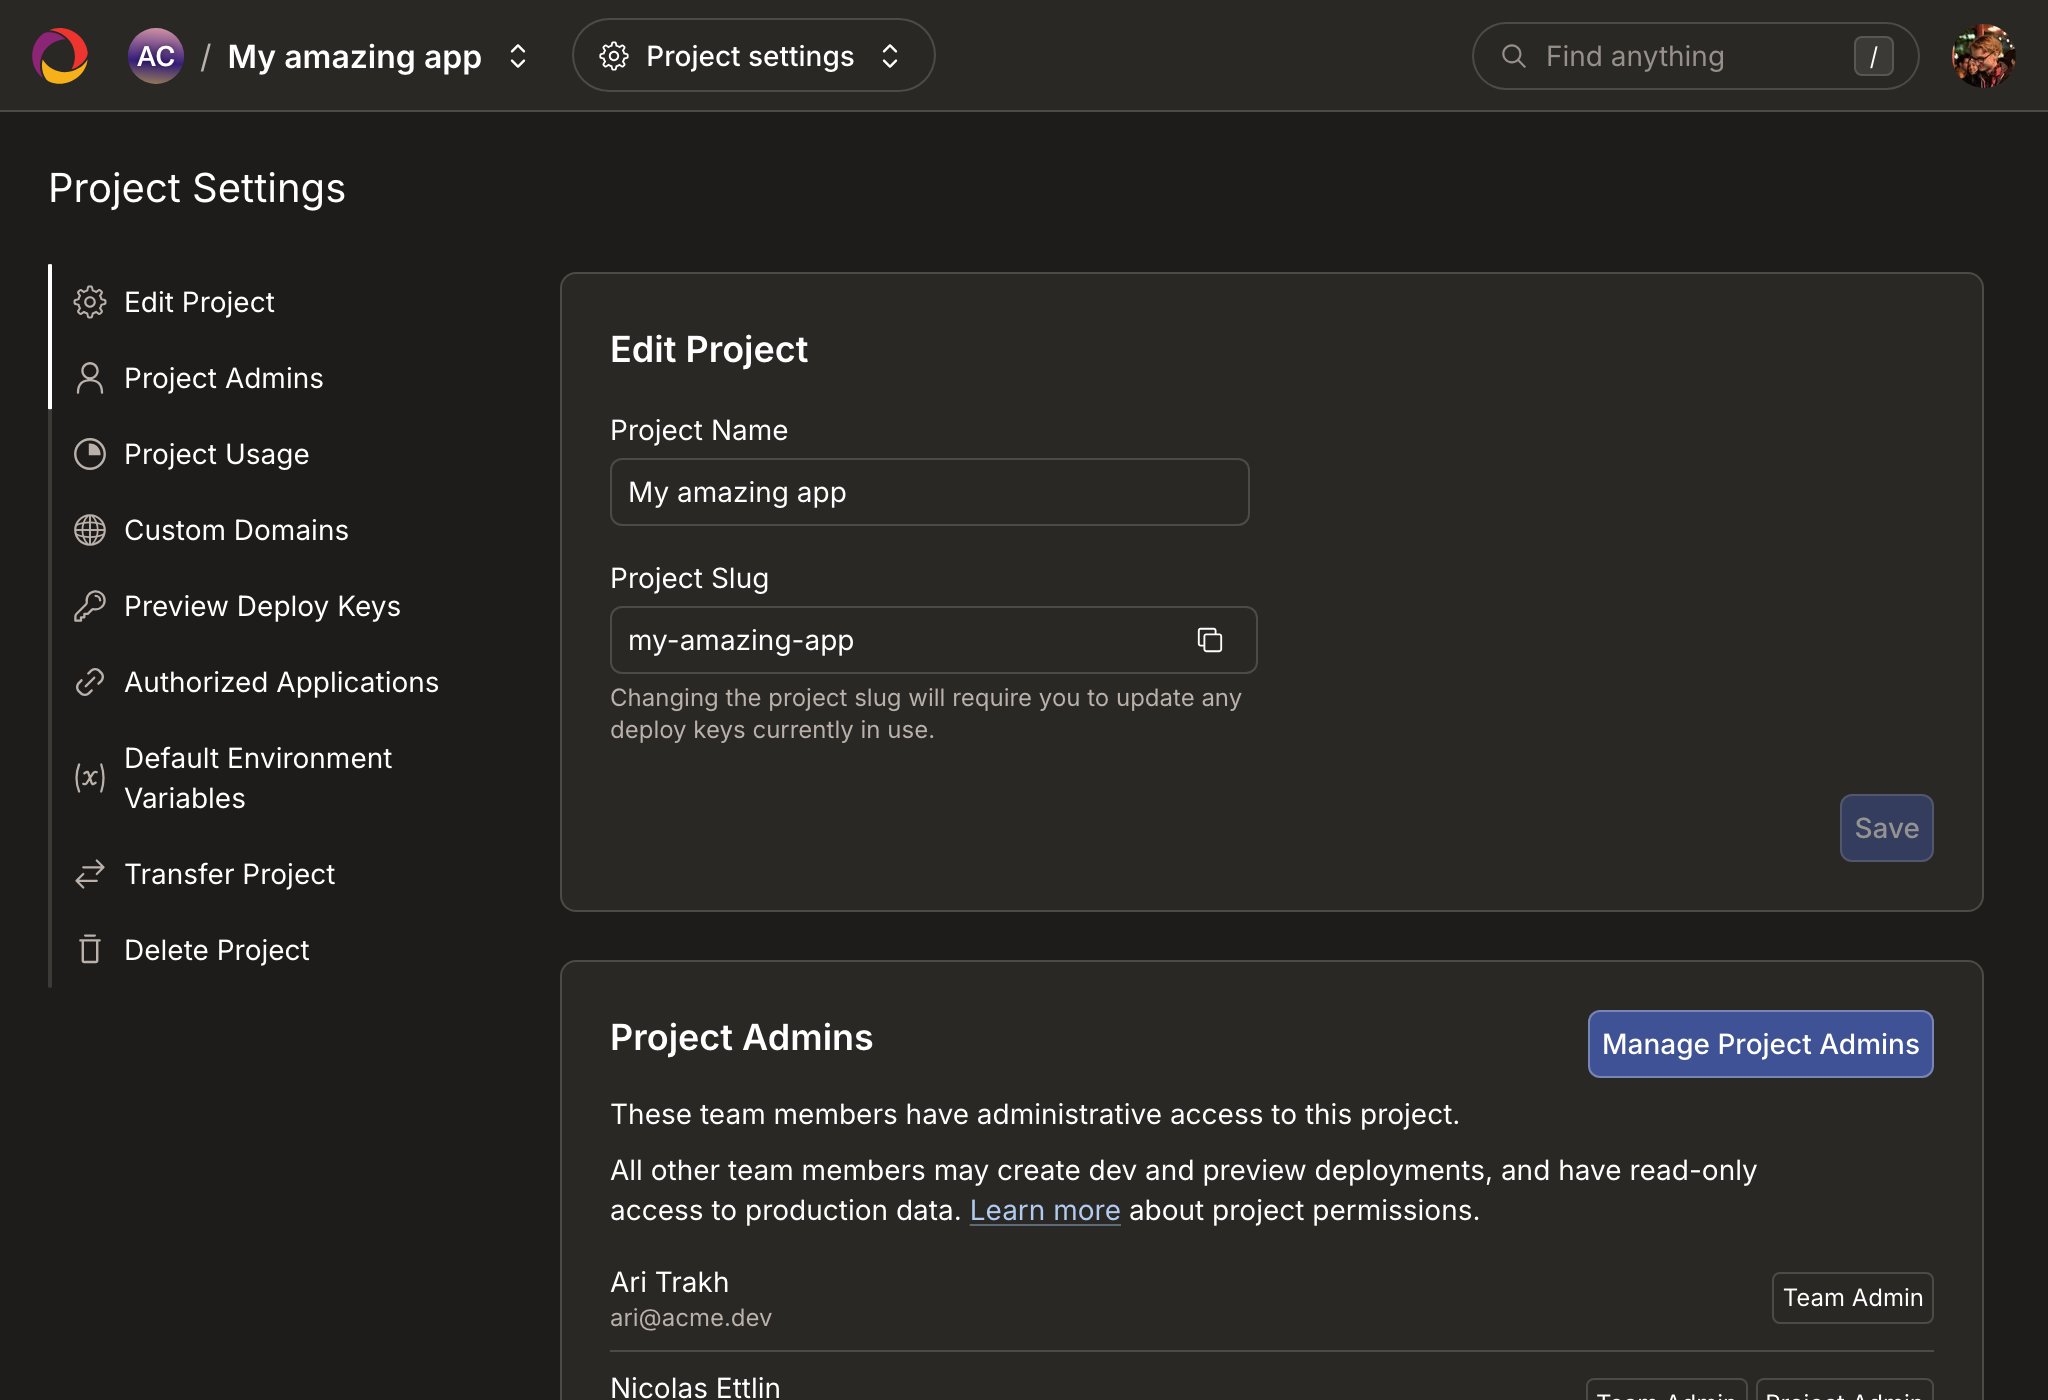
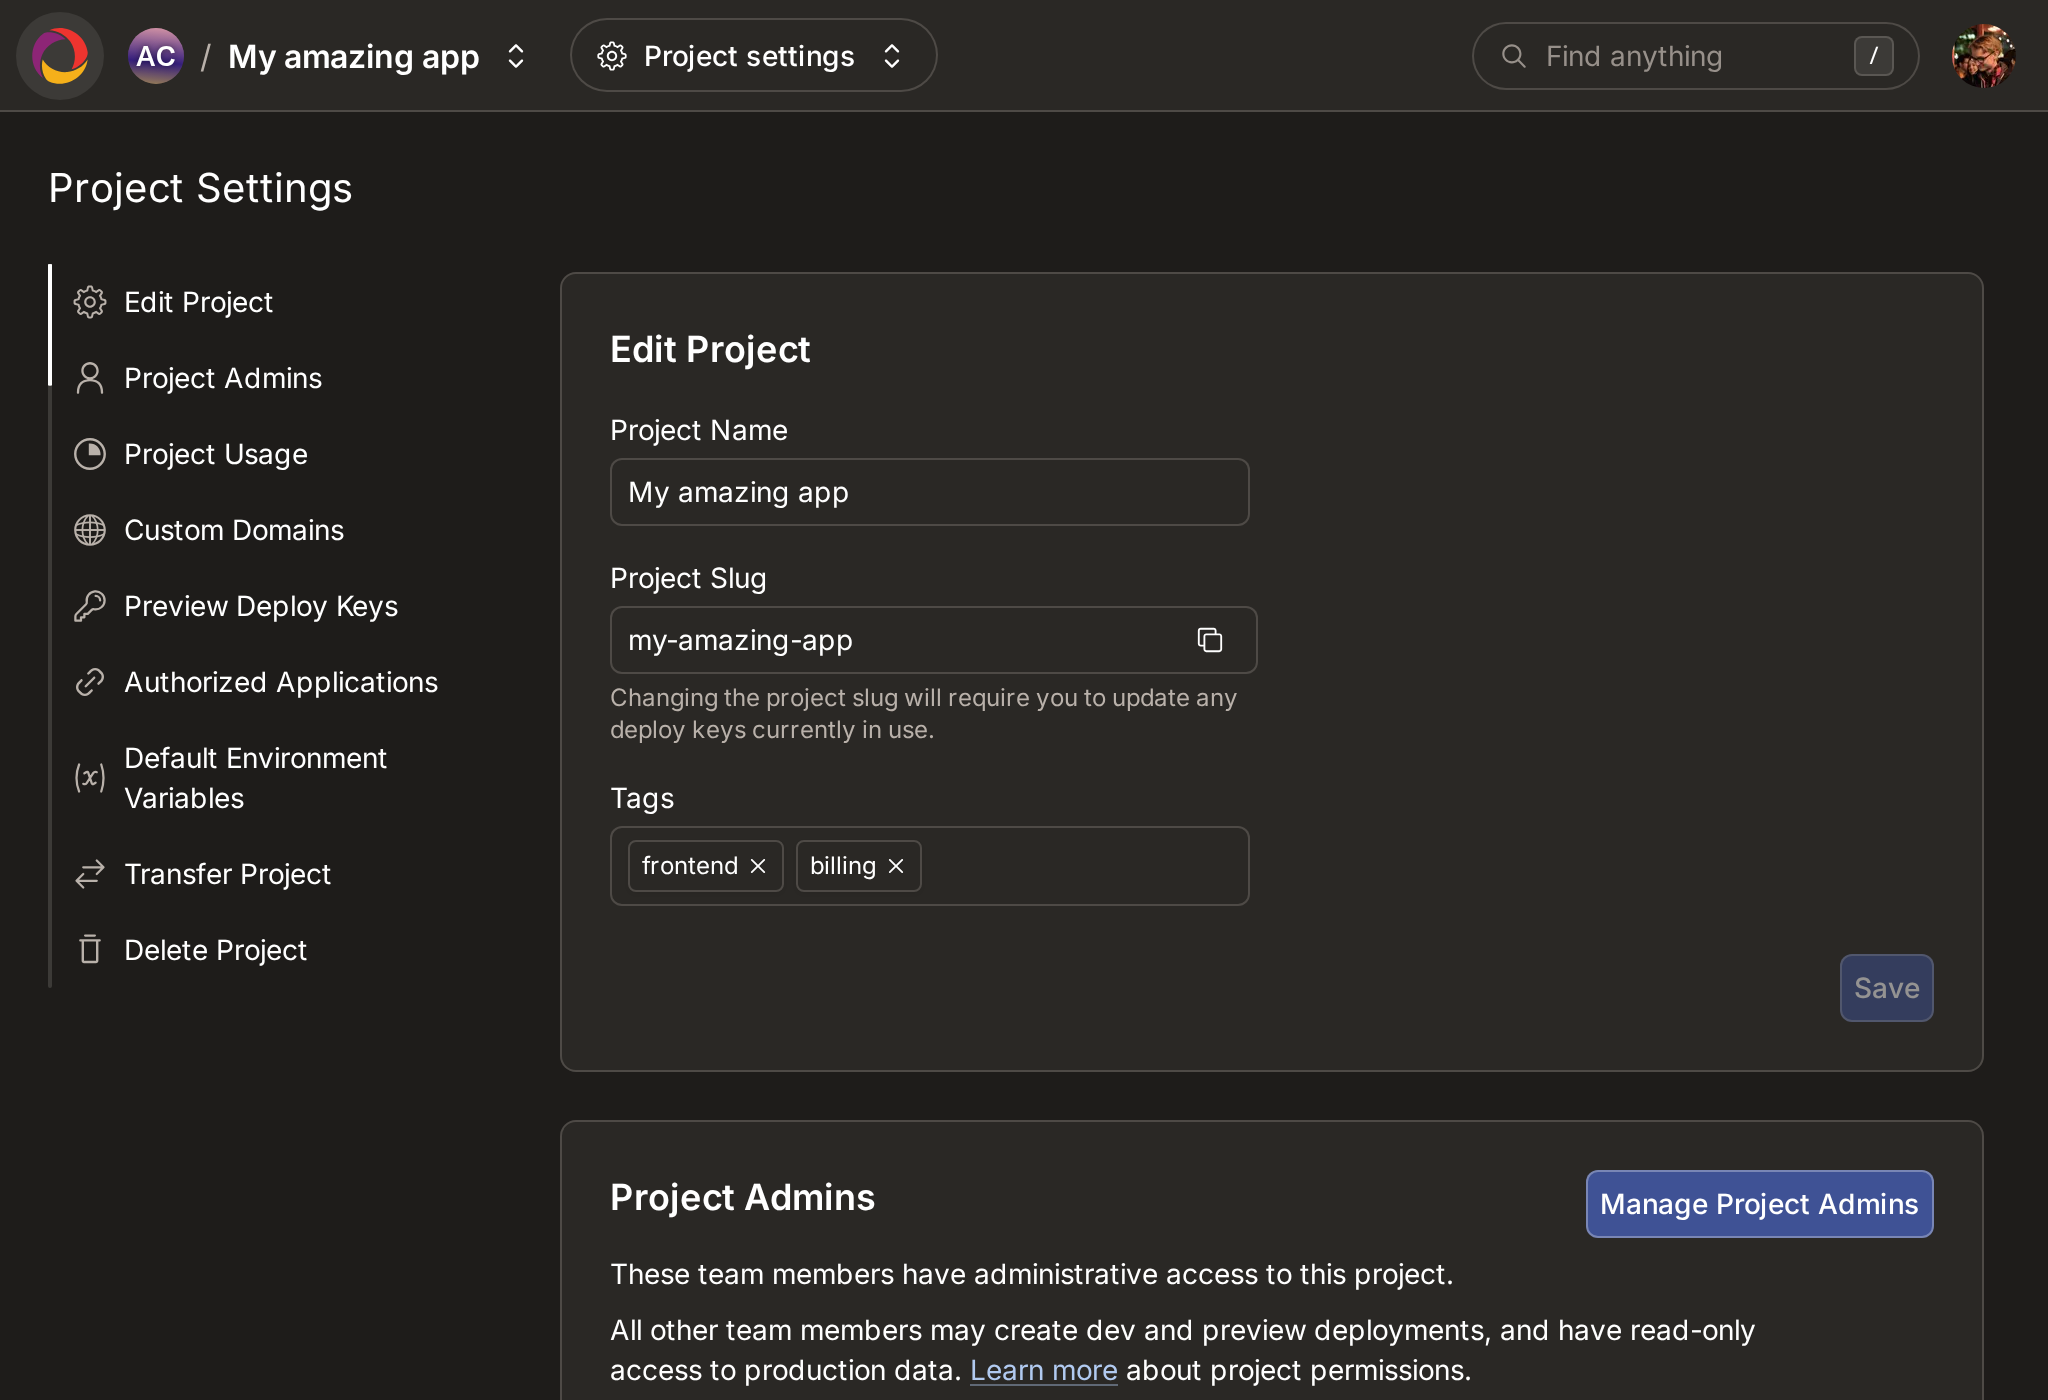
docs: document project tags and project list quick links (#60723)
add docs for project tags and the updated project list ui

GitOrigin-RevId: 7a71d774b734fd78a3a56a52406c092635d42bad

diff --git a/npm-packages/dashboard/src/docs/pages/Projects.stories.tsx b/npm-packages/dashboard/src/docs/pages/Projects.stories.tsx
@@ -1,11 +1,21 @@
 import { Meta, StoryObj } from "@storybook/nextjs";
 import { useState } from "react";
 import { mocked, screen, userEvent } from "storybook/test";
+import {
+  PlatformDeploymentResponse,
+  ProjectResponse,
+} from "@convex-dev/platform/managementApi";
 import { useDirectorySyncOffers } from "api/directorySync";
 import { useTeams } from "api/teams";
-import { usePaginatedProjects, useTeamProjectTags } from "api/projects";
+import { useDeploymentByName } from "api/deployments";
+import {
+  usePaginatedProjects,
+  useProjectById,
+  useTeamProjectTags,
+} from "api/projects";
 import { useHasCustomRolePermission } from "api/roles";
 import { useProjectTagFilter } from "hooks/useProjectTagFilter";
+import { CreateProjectModal } from "hooks/useCreateProjectModal";
 import { TeamIndexPage } from "../../pages/t/[team]";
 
 const meta = {
@@ -21,7 +31,113 @@ const meta = {
 export default meta;
 type Story = StoryObj<typeof meta>;
 
-export const Default: Story = {};
+const projectDefaults = {
+  teamId: 2,
+  teamSlug: "acme",
+  prodDeploymentReference: "production",
+  devDeploymentReference: "dev/nicolas",
+};
+
+const projects: ProjectResponse[] = [
+  {
+    ...projectDefaults,
+    id: 7,
+    name: "My amazing app",
+    slug: "my-amazing-app",
+    createTime: Date.now() - 2 * 24 * 60 * 60 * 1000,
+    prodDeploymentName: "musical-otter-456",
+    devDeploymentName: "happy-capybara-123",
+    tags: ["frontend", "billing"],
+  },
+  {
+    ...projectDefaults,
+    id: 8,
+    name: "Analytics pipeline",
+    slug: "analytics-pipeline",
+    createTime: Date.now() - 60 * 24 * 60 * 60 * 1000,
+    prodDeploymentName: "brave-falcon-219",
+    devDeploymentName: "gentle-lemur-874",
+    tags: ["data", "internal"],
+  },
+  {
+    ...projectDefaults,
+    id: 9,
+    name: "Payments worker",
+    slug: "payments-worker",
+    createTime: Date.now() - 120 * 24 * 60 * 60 * 1000,
+    prodDeploymentName: "steady-moose-602",
+    devDeploymentName: "clever-badger-331",
+    tags: ["backend", "billing"],
+  },
+  {
+    ...projectDefaults,
+    id: 10,
+    name: "Marketing site",
+    slug: "marketing-site",
+    createTime: Date.now() - 365 * 24 * 60 * 60 * 1000,
+    prodDeploymentName: "sunny-otter-145",
+    devDeploymentName: null,
+    devDeploymentReference: null,
+    tags: ["frontend"],
+  },
+];
+
+// The deployment the member most recently opened in "My amazing app", which
+// its card suggests after the project's default deployments.
+const recentDeployment: PlatformDeploymentResponse = {
+  kind: "cloud",
+  id: 321,
+  name: "quiet-heron-321",
+  createTime: Date.now(),
+  deploymentType: "preview",
+  projectId: 7,
+  region: "aws-us-east-1",
+  isDefault: false,
+  reference: "preview/fix-login-redirect",
+  previewIdentifier: "fix-login-redirect",
+  deploymentUrl: "https://quiet-heron-321.convex.cloud",
+  class: "s16",
+};
+
+export const Default: Story = {
+  beforeEach: () => {
+    const key = `/lastViewedNonDefaultDeploymentForProject/${recentDeployment.projectId}`;
+    window.localStorage.setItem(
+      key,
+      JSON.stringify({
+        name: recentDeployment.name,
+        reference: recentDeployment.reference,
+        deploymentType: recentDeployment.deploymentType,
+      }),
+    );
+    return () => window.localStorage.removeItem(key);
+  },
+  decorators: [
+    (storyFn) => {
+      mocked(usePaginatedProjects).mockReturnValue({
+        items: projects,
+        pagination: { hasMore: false },
+        isLoading: false,
+      });
+      mocked(useProjectById).mockImplementation((projectId) => ({
+        project: projects.find((p) => p.id === projectId),
+        isLoading: false,
+        error: undefined,
+      }));
+      mocked(useTeamProjectTags).mockReturnValue([
+        ...new Set(projects.flatMap((p) => p.tags ?? [])),
+      ]);
+      mocked(useDeploymentByName).mockImplementation((deploymentName) => ({
+        deployment:
+          deploymentName === recentDeployment.name
+            ? recentDeployment
+            : undefined,
+        notFound: false,
+      }));
+      return storyFn();
+    },
+  ],
+};
 
 // The team the docs decorator mocks, plus enough others for the switcher to
 // look like a list rather than a single row.
@@ -124,9 +240,6 @@ const taggedProject = {
  * The project list filtered to the projects with one tag.
  */
 export const FilteredByTag: Story = {
-  parameters: {
-    docsPage: { launchDarkly: { tagEditUi: true } },
-  },
   decorators: [
     (storyFn) => {
       mocked(useProjectTagFilter).mockImplementation(
@@ -168,9 +281,6 @@ export const FilteredByTag: Story = {
  * disabled.
  */
 export const TagFilterWithoutPermission: Story = {
-  parameters: {
-    docsPage: { launchDarkly: { tagEditUi: true } },
-  },
   decorators: [
     (storyFn) => {
       mocked(useHasCustomRolePermission).mockImplementation(
@@ -185,7 +295,41 @@ export const TagFilterWithoutPermission: Story = {
  * The tag filter is disabled while none of the team's projects have tags.
  */
 export const TagFilterWithoutTags: Story = {
+  decorators: [
+    (storyFn) => {
+      mocked(useTeamProjectTags).mockReturnValue([]);
+      mocked(usePaginatedProjects).mockReturnValue({
+        items: [{ ...projects[0], tags: [] }],
+        pagination: { hasMore: false },
+        isLoading: false,
+      });
+      return storyFn();
+    },
+  ],
+};
+
+/**
+ * The Create Project dialog with tags added to the new project.
+ */
+export const CreateProjectWithTags: Story = {
   parameters: {
-    docsPage: { launchDarkly: { tagEditUi: true } },
+    screenshotSelector: '[role="dialog"]',
+  },
+  // The dashboard mounts this dialog once in `_app`, outside the page.
+  render: (args) => (
+    <>
+      <TeamIndexPage {...args} />
+      <CreateProjectModal />
+    </>
+  ),
+  play: async () => {
+    await userEvent.click(
+      await screen.findByRole("button", { name: "Create Project" }),
+    );
+    await userEvent.type(await screen.findByLabelText("Project Name"), "Shop");
+    await userEvent.type(
+      screen.getByRole("combobox", { name: "Tags" }),
+      "frontend{Enter}billing{Enter}",
+    );
   },
 };

diff --git a/npm-packages/dashboard-storybook/.storybook/docsPageDecorator.tsx b/npm-packages/dashboard-storybook/.storybook/docsPageDecorator.tsx
@@ -183,7 +183,7 @@ export const docsPageDecorator: DecoratorFunction<ReactRenderer> = (
     devDeploymentName: "happy-capybara-123",
     prodDeploymentReference: "production",
     devDeploymentReference: "dev/nicolas",
-    tags: [],
+    tags: ["frontend", "billing"],
   } as NonNullable<ReturnType<typeof useProjectBySlug>>;
   const shouldMockCurrentProject = title.startsWith("docs/pages/project/");
   const shouldMockCurrentDeployment = title.startsWith(
@@ -265,7 +265,7 @@ export const docsPageDecorator: DecoratorFunction<ReactRenderer> = (
   mocked(useTeamMembers).mockReturnValue(mockTeamMembers);
   mocked(useCurrentTeam).mockReturnValue(mockTeam);
   mocked(useIsCurrentMemberTeamAdmin).mockReturnValue(true);
-  mocked(useTeamProjectTags).mockReturnValue([]);
+  mocked(useTeamProjectTags).mockReturnValue(["billing", "frontend"]);
   mocked(usePaginatedProjects).mockReturnValue({
     items: [mockProject],
     pagination: {
@@ -369,6 +369,7 @@ export const docsPageDecorator: DecoratorFunction<ReactRenderer> = (
   mocked(useLaunchDarkly).mockReturnValue({
     ...flagDefaults,
     enableStatuspageWidget: false,
+    tagEditUi: true,
     ...docsPageParams?.launchDarkly,
   });
   mocked(useCurrentDeployment).mockReturnValue(

diff --git a/npm-packages/dashboard/src/docs/pages/project/ProjectSettings.stories.tsx b/npm-packages/dashboard/src/docs/pages/project/ProjectSettings.stories.tsx
@@ -121,3 +121,14 @@ export default meta;
 type Story = StoryObj<typeof meta>;
 
 export const Default: Story = {};
+
+/**
+ * The Edit Project form, where project admins rename a project and edit its
+ * tags.
+ */
+export const Tags: Story = {
+  parameters: {
+    // The sheet around the form, so the crop includes its heading.
+    screenshotSelector: ':has(> form[aria-label="Edit project settings"])',
+  },
+};

diff --git a/npm-packages/dashboard/src/docs/components/ProjectCard.stories.tsx b/npm-packages/dashboard/src/docs/components/ProjectCard.stories.tsx
@@ -95,6 +95,12 @@ const previewDeployment: PlatformDeploymentResponse = {
 };
 
 export const WithRecentDeployment: Story = {
+  // Wide enough that none of the deployment pills truncate.
+  render: (args) => (
+    <div className="w-full max-w-xl">
+      <ProjectCard {...args} />
+    </div>
+  ),
   beforeEach: () => {
     mocked(useDeploymentByName).mockReturnValue({
       deployment: previewDeployment,
